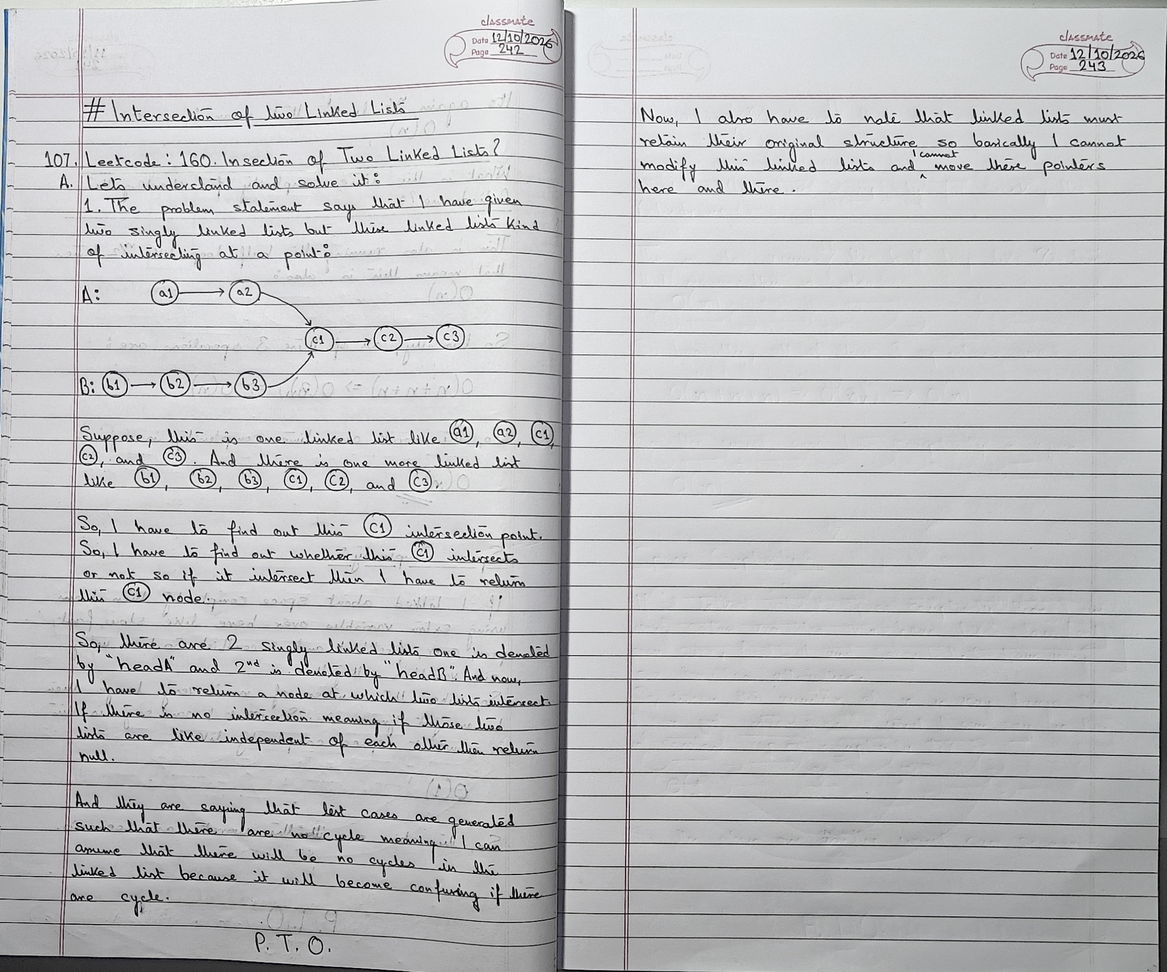
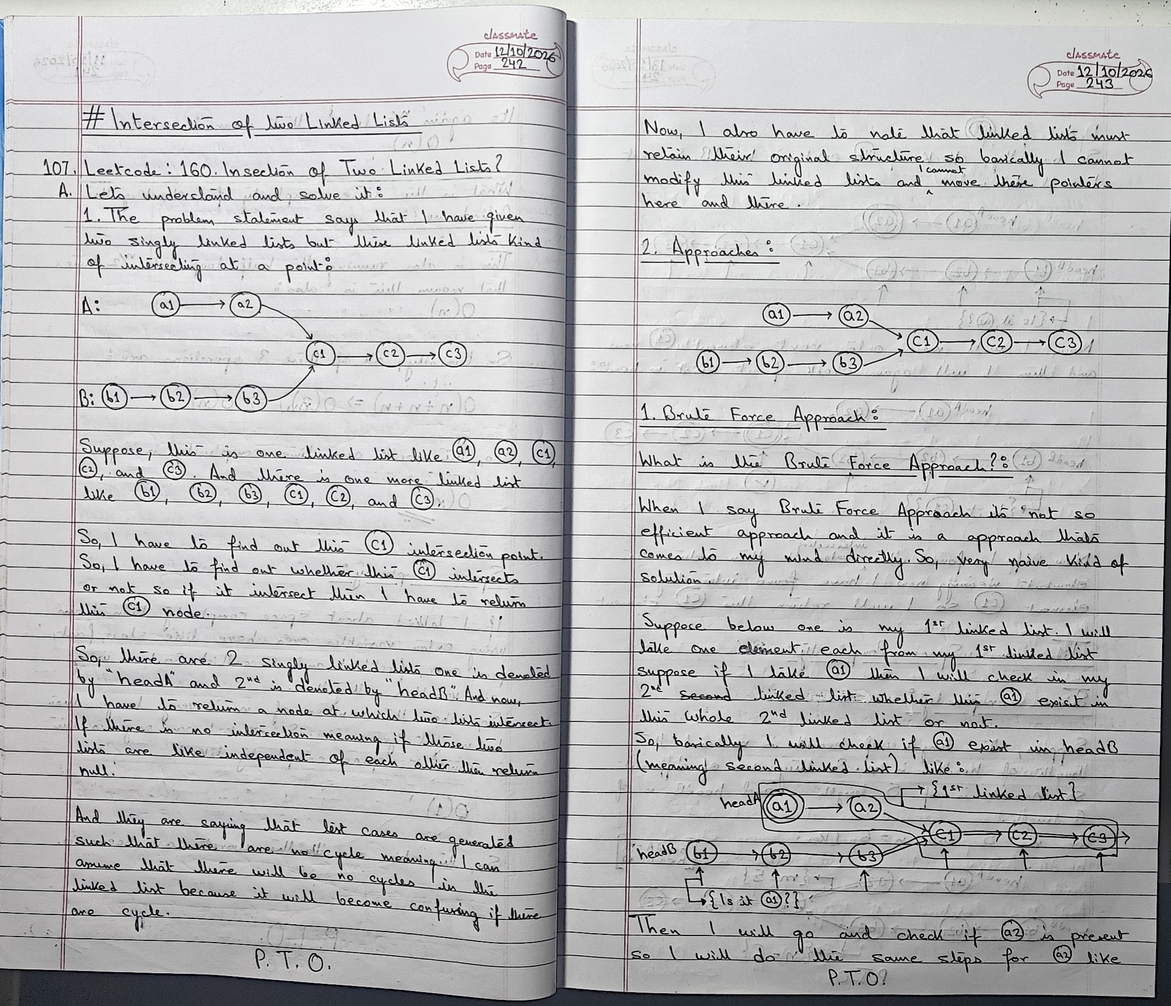
Add linked-list intersection notes
Document brute-force and Set-based approaches, including their pseudocode and complexity. Replace the original vol-2 page images with updated scans.

Changed region(s): [[0.0, 0.0, 1.0, 1.0], [0.2183, 0.0, 0.3743, 0.0312]]

diff --git a/src/linked-list-easy-or-medium/intersection-of-two-linked-lists/README.md b/src/linked-list-easy-or-medium/intersection-of-two-linked-lists/README.md
@@ -40,3 +40,181 @@ I have to return the node at which the two lists intersect. If there is no inter
 The notes also mention that test cases are generated so that there are no cycles in the linked lists. I can assume there will be no cycle in a linked list, because it would become confusing if there were a cycle.
 
 I also have to note that the linked lists must retain their original structure. Therefore, I cannot modify the linked lists or move their pointers here and there.
+
+### Approaches
+
+```text
+headA: a1 → a2 ─┐
+                ├→ c1 → c2 → c3
+headB: b1 → b2 → b3 ─┘
+```
+
+### 1. Brute-force approach
+
+Brute force is a direct, naive approach and is not very efficient.
+
+Take one element at a time from the first linked list. For example, if I take `a1`, I check in the second linked list whether `a1` exists or not.
+
+```text
+For a1:
+    Is a1 present in headB?
+```
+
+Then I check whether `a2` is present in `headB`, repeating the same steps for each element in `headA`.
+
+```text
+For a2:
+    Is a2 present in headB?
+```
+
+Next, I check `c1`. If I find the intersecting element, I return that element. In this example, I find `c1`, so I return the `c1` node.
+
+### Time complexity
+
+Suppose the length of `headA` is `m` and the length of `headB` is `n`.
+
+The notes use this example:
+
+- `headA` has length 5, so \(m = 5\).
+- `headB` has length 6, so \(n = 6\).
+
+```text
+headA (m = 5): a1 → a2 → c1 → c2 → c3
+headB (n = 6): b1 → b2 → b3 → c1 → c2 → c3
+```
+
+For the first element of `headA`, I may have to scan the elements of `headB`. Then I do the same for the second element, the third element, and so on.
+
+For each of the `m` elements in `headA`, I may have to scan all `n` elements in `headB`.
+
+The first element of `headA` may require up to `n` checks, the second may require up to `n` checks, the third may require up to `n` checks, and so on for all `m` elements.
+
+### Worst-case time complexity
+
+Therefore:
+
+\[
+O(m \times n)
+\]
+
+I check each element of `headA`, and for each element I may scan `headB`, which takes up to `n` checks. There are `m` elements in `headA`.
+
+So the brute-force time complexity is:
+
+\[
+O(mn)
+\]
+
+If `m` and `n` are equal:
+
+\[
+O(mn) = O(n^2)
+\]
+
+### Space complexity
+
+Do I need extra space? Do I have to create an array or a separate linked list?
+
+No. The brute-force approach uses only a constant number of pointers and variables, so its space complexity is:
+
+\[
+O(1)
+\]
+
+### Brute-force conclusion
+
+This solution is not efficient because \(O(n^2)\) time complexity can be very high when the lists are large.
+
+### Optimized approach
+
+```text
+headA: a1 → a2 ─┐
+                ├→ c1 → c2 → c3
+headB: b1 → b2 → b3 ─┘
+```
+
+I need to find whether every node inside `headA` is present in `headB`. The brute-force approach repeats the search for each node.
+
+I can optimize searching by using a **Hash Map / Hash Table / Set** in JavaScript. A Set or Hash Map can find or fetch an element in average \(O(1)\) time.
+
+### Approach
+
+**Step 1: Put all nodes of `headB` into a Set.**
+
+For this example, the Set contains:
+
+```text
+Set(b1, b2, b3, c1, c2, c3)
+```
+
+**Step 2: Loop through every node of `headA`.**
+
+For each node, check whether it is present in the Set.
+
+```text
+Set.has(a1) → false
+Set.has(a2) → false
+Set.has(c1) → true
+```
+
+When `c1` is found in the Set, it is the intersection node, so I can return it.
+
+### Checking the Set
+
+- Is `a1` present in the Set? **No.**
+- Is `a2` present in the Set? **No.**
+- Is `c1` present in the Set? **Yes.**
+
+That means `c1` is the intersection point, and I can return it.
+
+```text
+headA: a1 → a2 → c1 → c2 → c3
+                    ↑
+                    └── first node found in the Set
+
+headB: b1 → b2 → b3 → c1 → c2 → c3
+
+Set: { b1, b2, b3, c1, c2, c3 }
+```
+
+### Pseudocode
+
+```javascript
+function getIntersectionNode(headA, headB) {
+  // Put all the nodes of headB inside a Set
+  const store = new Set();
+
+  while (headB) {
+    store.add(headB);
+    headB = headB.next;
+  }
+
+  // Check each and every node of headA inside the Set
+  while (headA) {
+    if (store.has(headA)) return headA;
+    headA = headA.next;
+  }
+
+  return null;
+}
+```
+
+### How the algorithm works
+
+1. Create an empty Set called `store`.
+2. Traverse `headB` and add each **node** to the Set.
+3. Traverse `headA` from its head.
+4. For each node in `headA`, check `store.has(headA)`.
+5. If the Set contains that node, return the node itself as the intersection.
+6. If traversal reaches the end of `headA` without finding a match, return `null`.
+
+The Set stores node references, so the check identifies the same node object, rather than merely checking whether two nodes have equal values.
+
+### Complexity of the Set approach
+
+Let `m` be the number of nodes in `headA` and `n` be the number of nodes in `headB`.
+
+- **Time complexity:** \(O(m+n)\) on average, because each list is traversed at most once and Set insertion/lookups are average \(O(1)\).
+- **Space complexity:** \(O(n)\), because the Set stores the nodes of `headB`.
+
+This improves the brute-force approach from \(O(mn)\) time to average \(O(m+n)\) time, at the cost of extra space for the Set.
